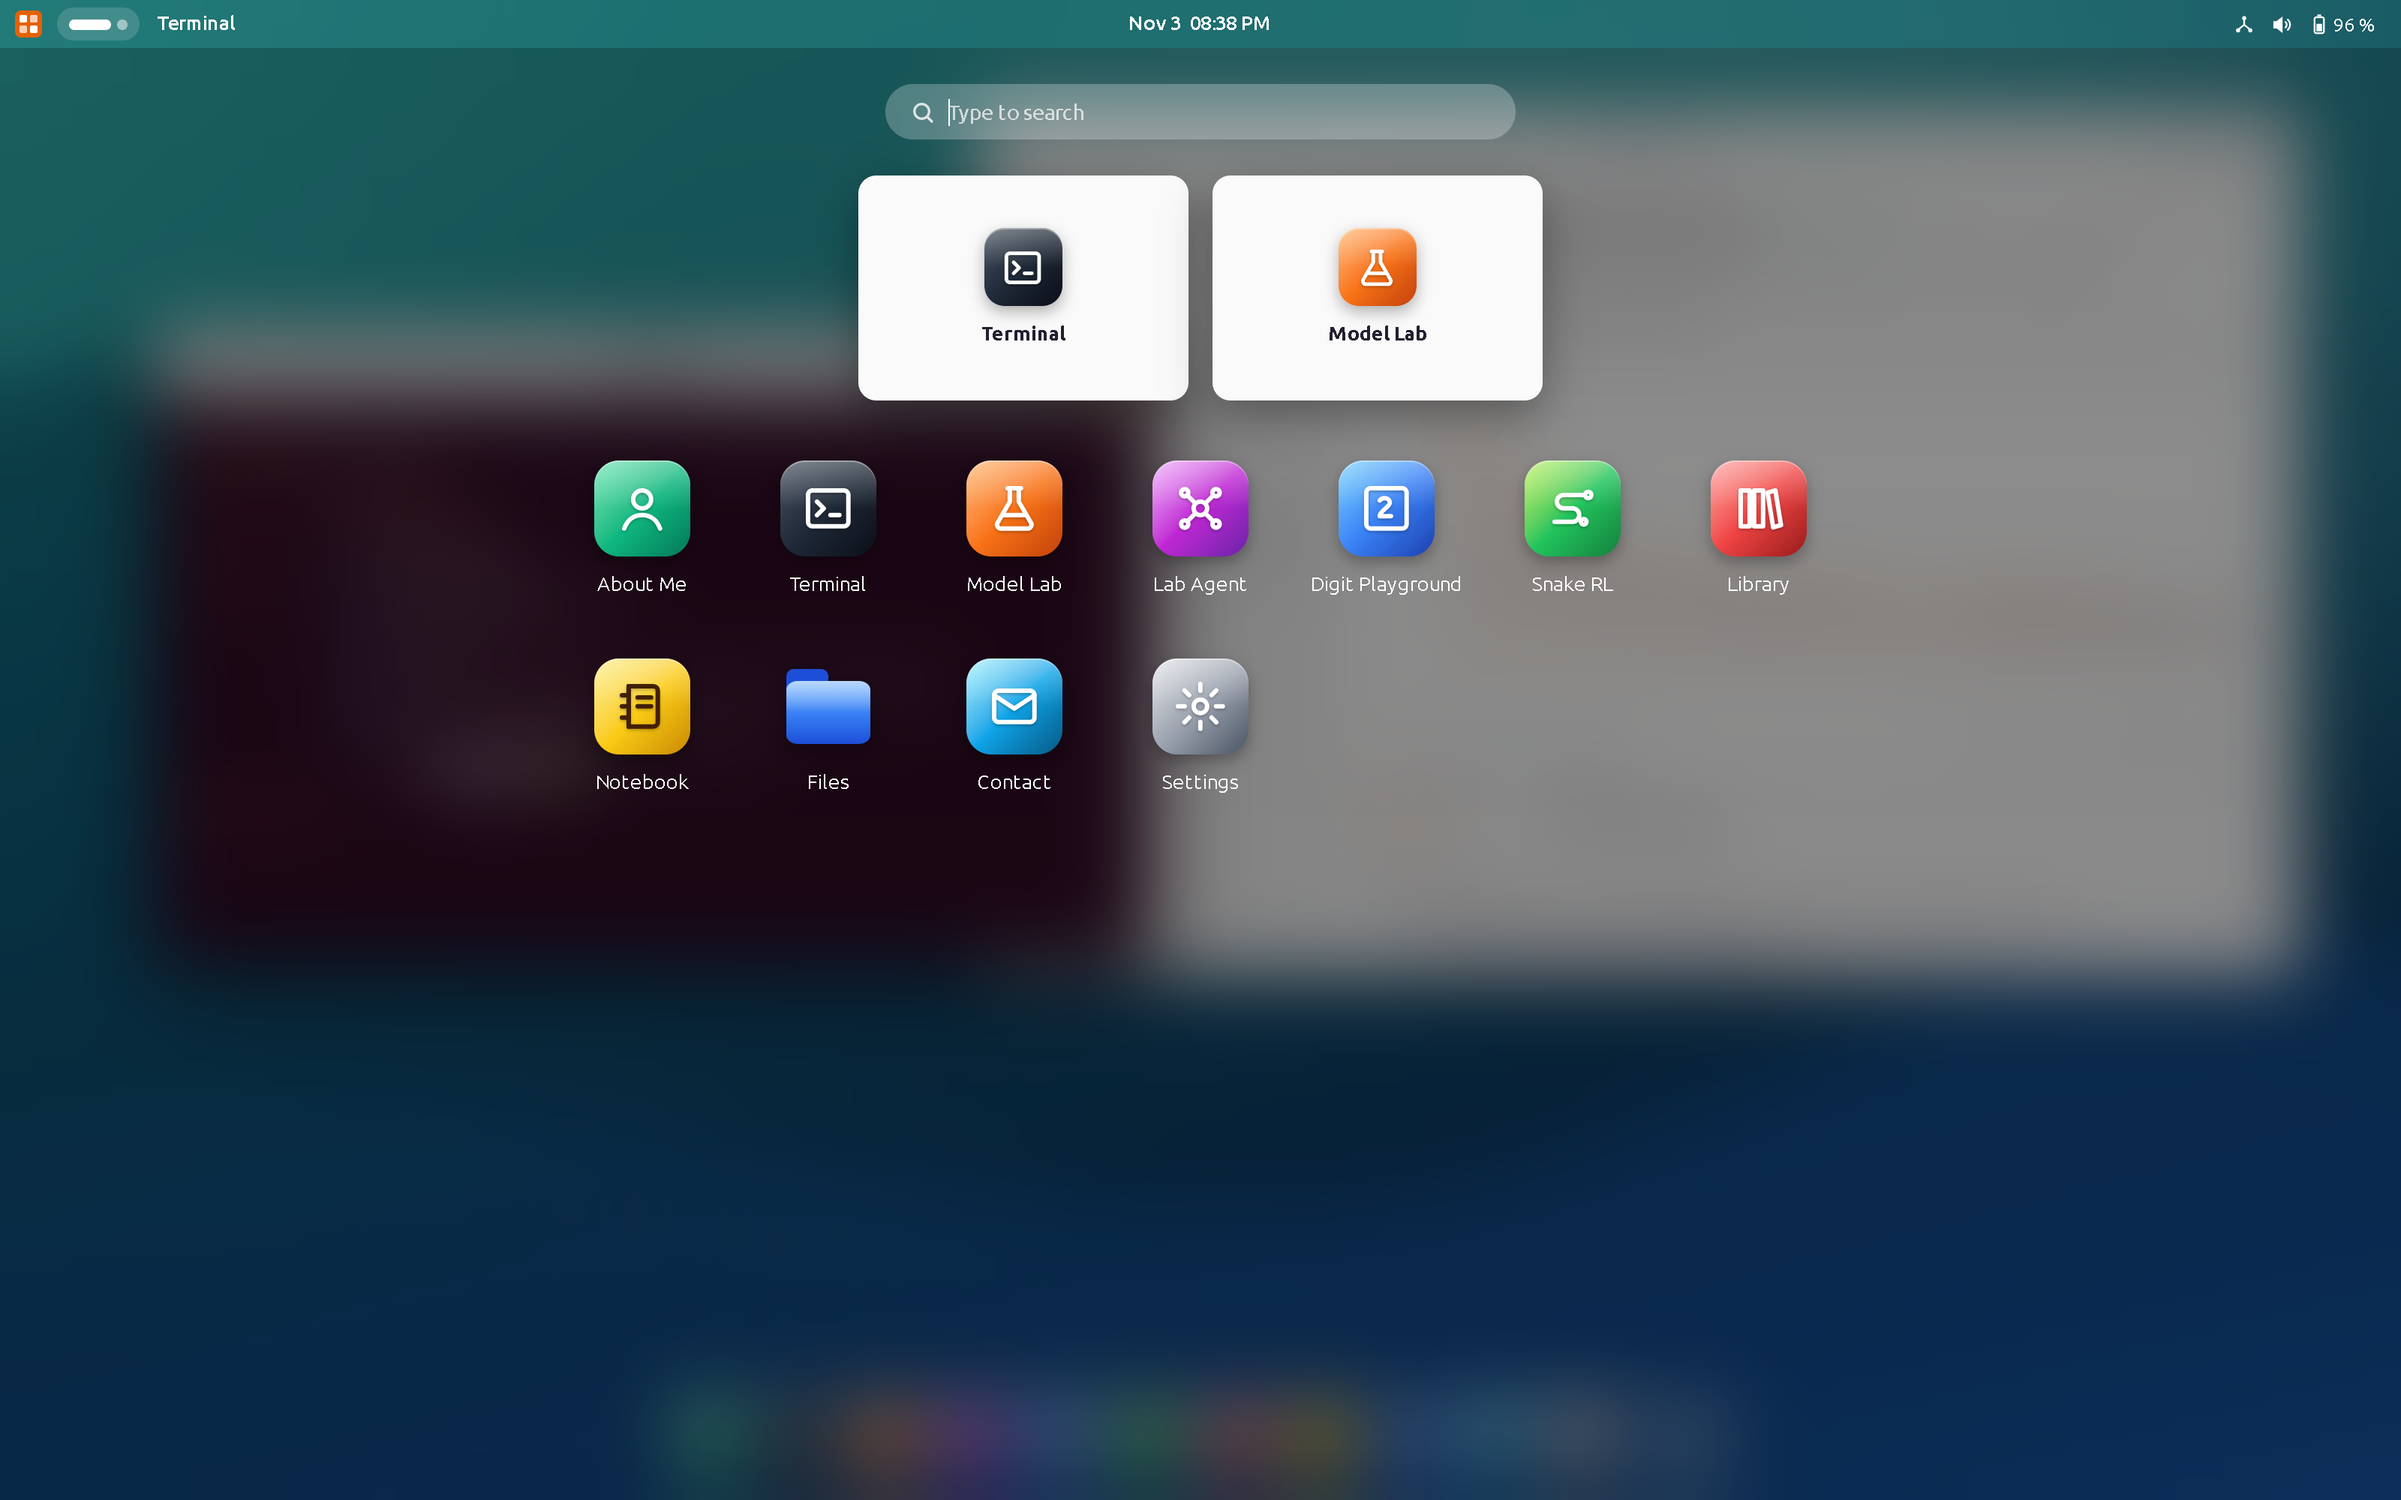
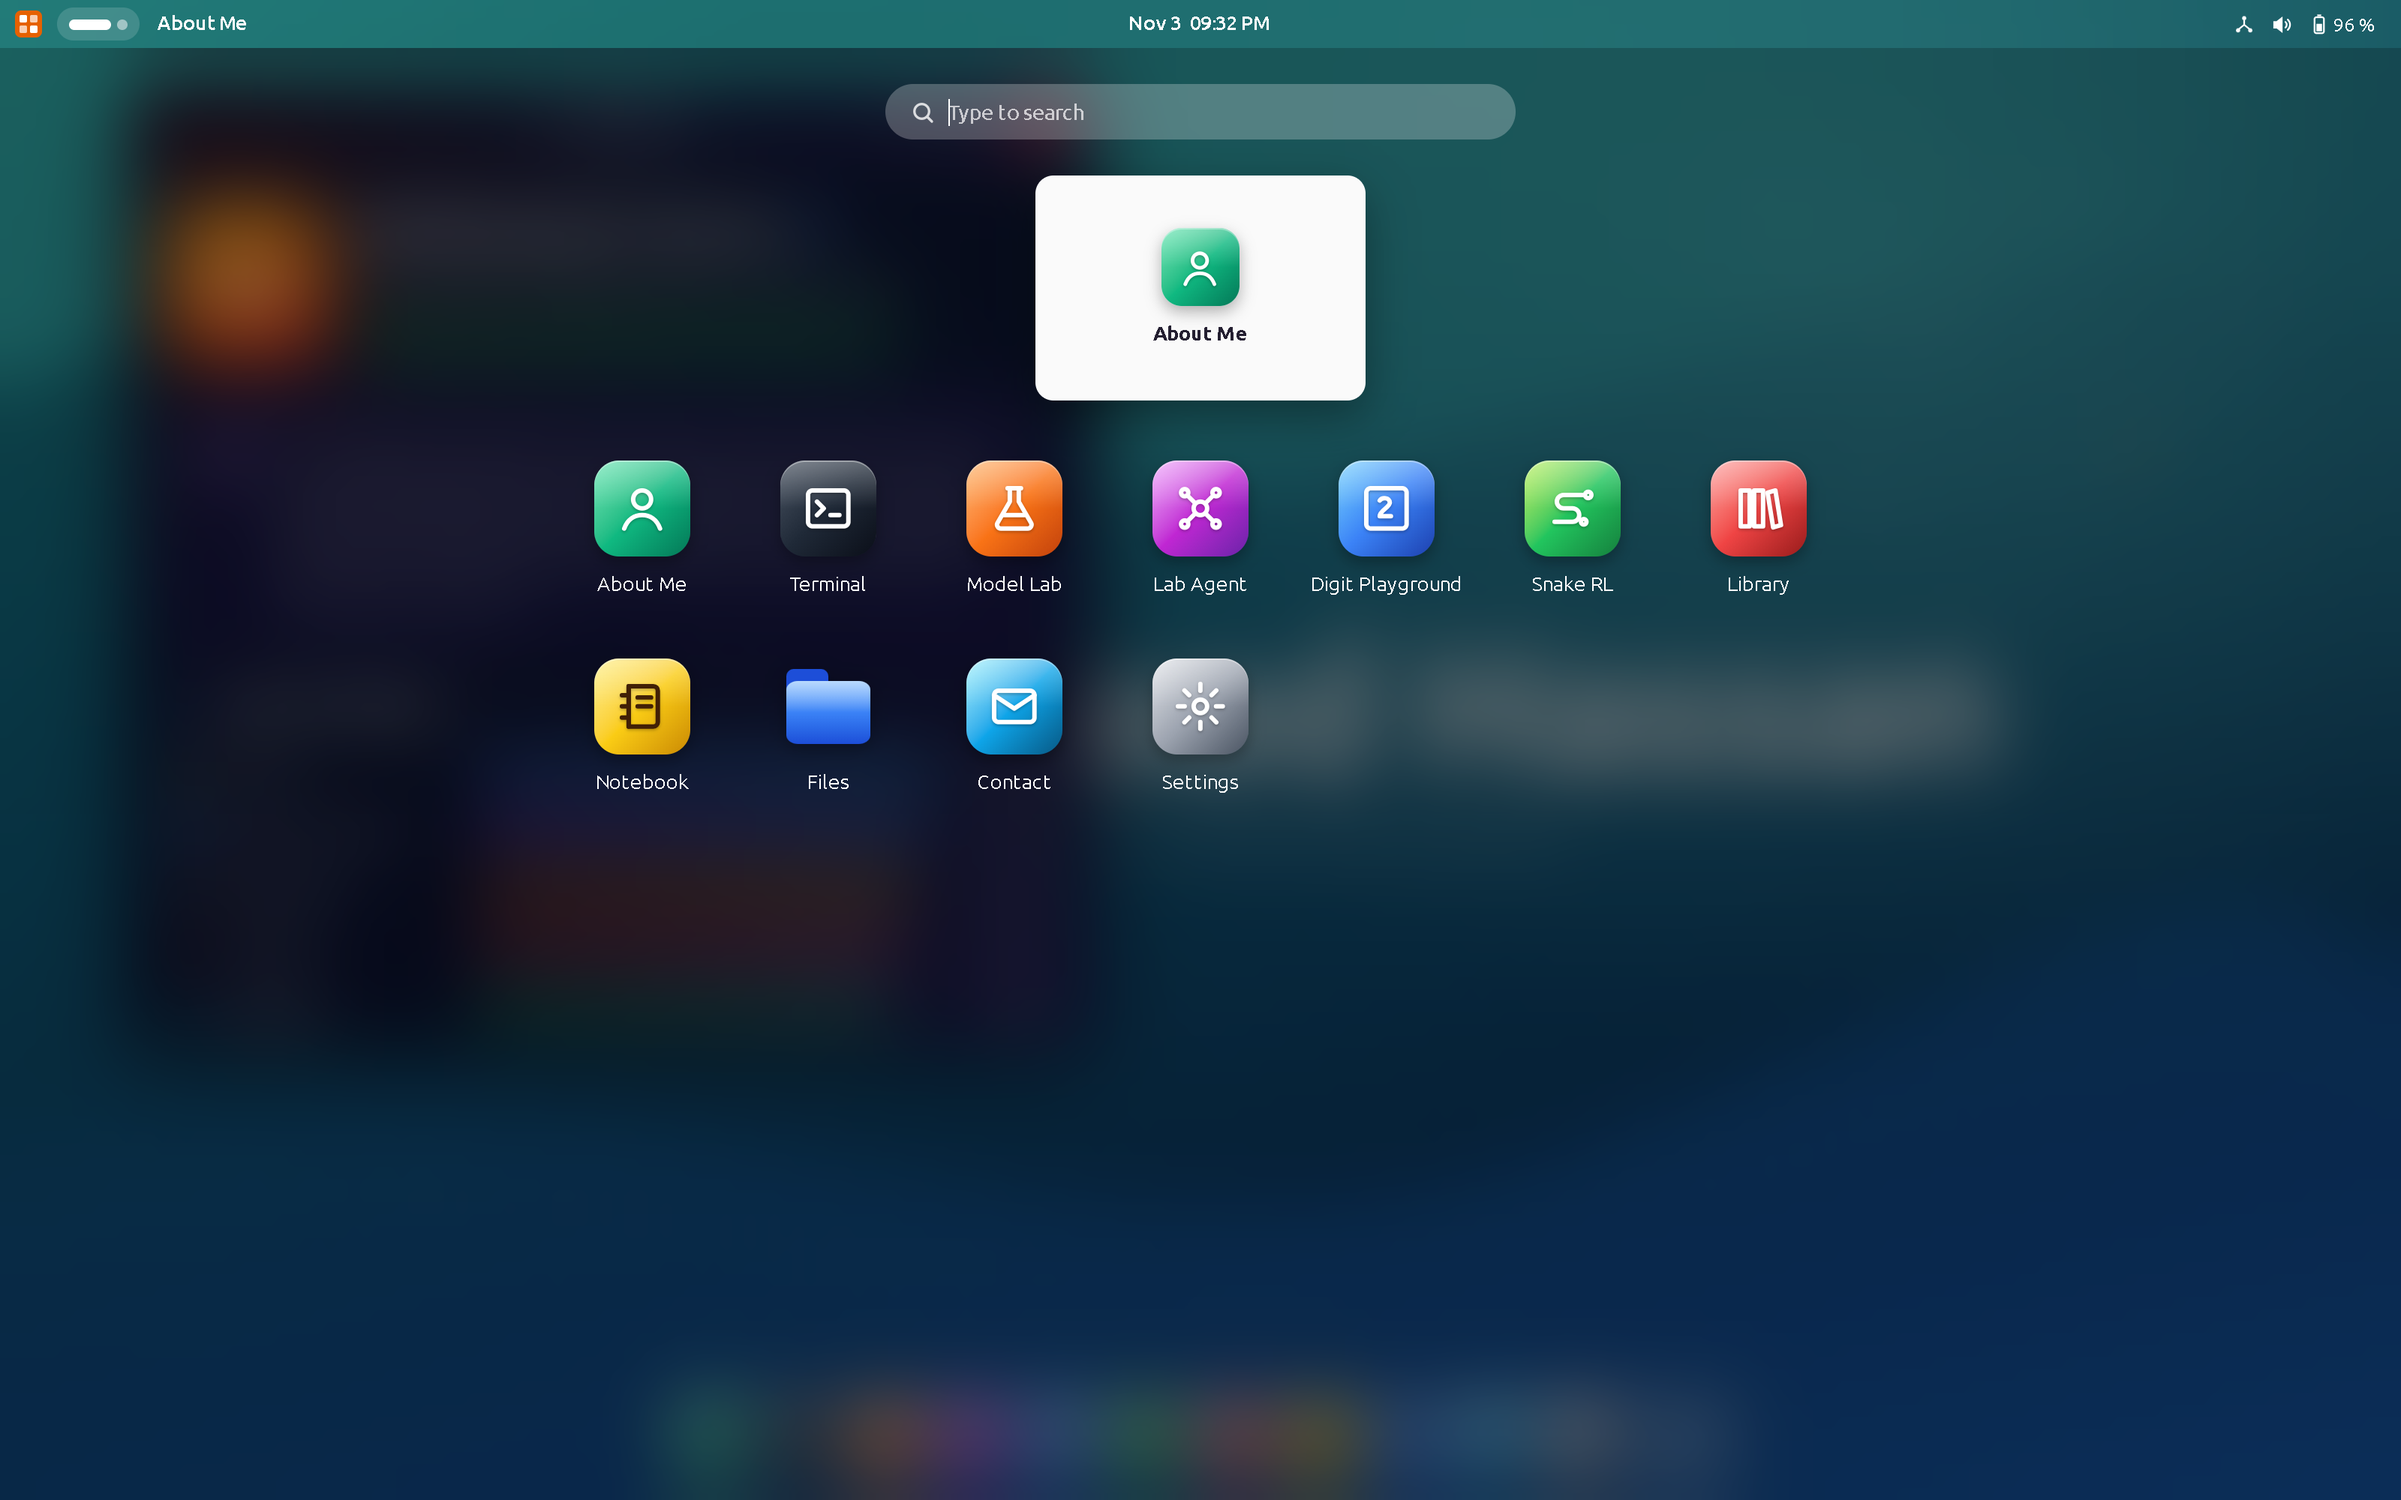
Refresh screenshots: dark glass windows, new loading screen and About Me

diff --git a/README.md b/README.md
@@ -21,9 +21,13 @@ My portfolio is a whole operating system that runs in the browser. You log in, o
 | --- | --- |
 | ![App menu](screenshots/menu.png) | ![Activities overview](screenshots/overview.png) |
 
-| Login | Desktop |
+| Loading screen | Login |
 | --- | --- |
-| ![Login screen](screenshots/login.png) | ![Desktop](screenshots/desktop.png) |
+| ![Loading screen with code rain](screenshots/loading.png) | ![Login screen with the intro terminal](screenshots/login.png) |
+
+| About Me |
+| --- |
+| ![About Me window](screenshots/about.png) |
 
 It also works on phones:
 
